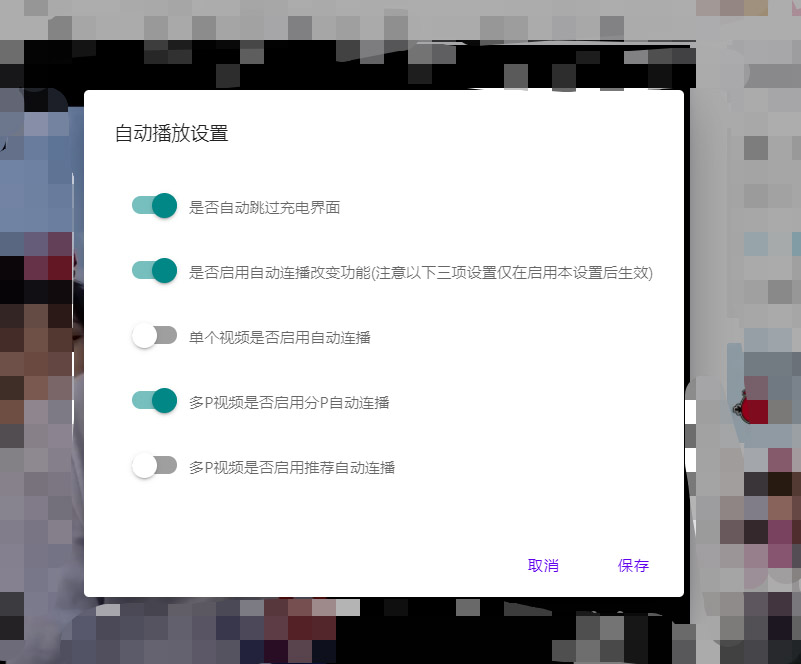
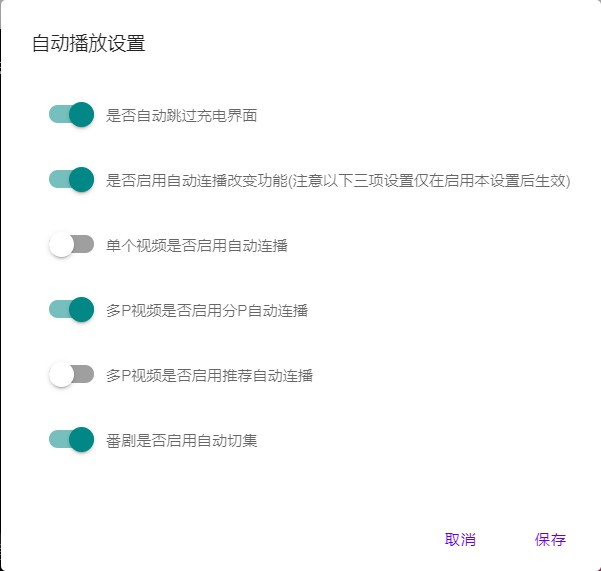
FEATURE:增加番剧自动连播选项

diff --git a/BilibiliSmallTools.js b/BilibiliSmallTools.js
@@ -1,7 +1,7 @@
 // ==UserScript==
 // @name               哔哩哔哩 小功能
 // @namespace          https://github.com/MrSTOP
-// @version            0.3.5.4
+// @version            0.3.6.6
 // @description        记录为什么屏蔽了此人，支持导入导出。添加自动跳过充电页面功能，调整B站恶心的自动连播功能
 // @author             MrSTOP
 // @license            GPLv3
@@ -312,6 +312,7 @@
         singleVideoAutoPlayRecommend: false,
         multipartVideoAutoPlay: true,
         multipartVideoAutoPlayRecommend: false,
+        bangumiAutoPlay: true,
       });
     }
 
@@ -370,6 +371,25 @@
           //     );
           //     console.log("$$$$$$$$$$$$$$$$$$$$$$$$$$$$$$$");
           //   }
+          if ($(node).hasClass("bilibili-player-video-btn-setting")) {
+            $("body .bilibili-player-video-btn-setting")[0].dispatchEvent(
+              new Event("mouseover")
+            );
+            $("body .bilibili-player-video-btn-setting")[0].dispatchEvent(
+              new Event("mouseout")
+            );
+            if (currentSettings.bangumiAutoPlay) {
+              $(
+                "body .bilibili-player-video-btn-setting-right-playtype-content>div>div>label:nth-of-type(1)"
+              )[0].click();
+              console.log("已开启自动切集");
+            } else {
+              $(
+                "body .bilibili-player-video-btn-setting-right-playtype-content>div>div>label:nth-of-type(2)"
+              )[0].click();
+              console.log("已开启播完暂停");
+            }
+          }
           if ($(node).hasClass("list-item")) {
             $(node).find("li.blacklist").on({
               click: blackButtonClickHandler,
@@ -484,6 +504,19 @@
         </span>
         <label class="mdc-list-item__text" for="SettingMultipartVideoAutoPlayRecommendInput">多P视频是否启用推荐自动连播</label>
         </li>
+        <li class="mdc-list-item" role="switch" tabindex="4">
+        <span class="mdc-list-item__graphic">
+        <div id="SettingBangumiAutoPlay" class="mdc-switch">
+        <div class="mdc-switch__track"></div>
+        <div class="mdc-switch__thumb-underlay">
+        <div class="mdc-switch__thumb">
+        <input type="checkbox" id="SettingBangumiAutoPlayInput" class="mdc-switch__native-control">
+        </div>
+        </div>
+        </div>
+        </span>
+        <label class="mdc-list-item__text" for="SettingBangumiAutoPlayInput">番剧是否启用自动切集</label>
+        </li>
         </ul>
         <!--<ul id="AutoPlaySettingOptionList" class="mdc-list" role="group" aria-label="List with switch items">
         <li class="mdc-list-item" role="switch" aria-checked="false">
@@ -557,7 +590,9 @@
         MDCDialog = mdc.dialog.MDCDialog.attachTo(
           $("#AutoPlaySettingDialog")[0]
         );
-        let settingList = mdc.list.MDCList.attachTo($("#AutoPlaySettingOptionList")[0]);
+        let settingList = mdc.list.MDCList.attachTo(
+          $("#AutoPlaySettingOptionList")[0]
+        );
         let tooltip = mdc.tooltip.MDCTooltip.attachTo(
           $("#AutoPlaySettingButtonTooltip")[0]
         );
@@ -572,6 +607,7 @@
         let jQ_MultipartVideoAutoPlayRecommendSwitch = $(
           "#SettingMultipartVideoAutoPlayRecommend"
         );
+        let jQ_BangumiAutoPlaySwitch = $("#SettingBangumiAutoPlay");
 
         let skipChargeSwitch = mdc.switchControl.MDCSwitch.attachTo(
           jQ_SkipChargeSwitch[0]
@@ -579,33 +615,43 @@
         let autoPlayChangeSwitch = mdc.switchControl.MDCSwitch.attachTo(
           jQ_AutoPlayChangeSwitch[0]
         );
-        let singleVideoAutoPlayRecommendSwitch = mdc.switchControl.MDCSwitch.attachTo(
-          jQ_SingleVideoAutoPlayRecommendSwitch[0]
-        );
+        let singleVideoAutoPlayRecommendSwitch =
+          mdc.switchControl.MDCSwitch.attachTo(
+            jQ_SingleVideoAutoPlayRecommendSwitch[0]
+          );
         let multipartVideoAutoPlaySwitch = mdc.switchControl.MDCSwitch.attachTo(
           jQ_MultipartVideoAutoPlaySwitch[0]
         );
-        let multipartVideoAutoPlayRecommendSwitch = mdc.switchControl.MDCSwitch.attachTo(
-          jQ_MultipartVideoAutoPlayRecommendSwitch[0]
+        let multipartVideoAutoPlayRecommendSwitch =
+          mdc.switchControl.MDCSwitch.attachTo(
+            jQ_MultipartVideoAutoPlayRecommendSwitch[0]
           );
-          jQ_AutoPlayChangeSwitch.on({
-              change: () => {
-              if (autoPlayChangeSwitch.checked) {
-                  settingList.setEnabled([2], true);
-                  singleVideoAutoPlayRecommendSwitch.disabled = false;
-                  settingList.setEnabled([3], true);
-                  multipartVideoAutoPlaySwitch.disabled = false;
-                  settingList.setEnabled([4], true);
-                  multipartVideoAutoPlayRecommendSwitch.disabled = false;
-              } else {
-                  settingList.setEnabled([2], false);
-                  singleVideoAutoPlayRecommendSwitch.disabled = true;
-                  settingList.setEnabled([3], false);
-                  multipartVideoAutoPlaySwitch.disabled = true;
-                  settingList.setEnabled([4], false);
-                  multipartVideoAutoPlayRecommendSwitch.disabled = true;
-              }
-          }})
+        let bangumiAutoPlaySwitch = mdc.switchControl.MDCSwitch.attachTo(
+          jQ_BangumiAutoPlaySwitch[0]
+        );
+        jQ_AutoPlayChangeSwitch.on({
+          change: () => {
+            if (autoPlayChangeSwitch.checked) {
+              settingList.setEnabled([2], true);
+              singleVideoAutoPlayRecommendSwitch.disabled = false;
+              settingList.setEnabled([3], true);
+              multipartVideoAutoPlaySwitch.disabled = false;
+              settingList.setEnabled([4], true);
+              multipartVideoAutoPlayRecommendSwitch.disabled = false;
+              settingList.setEnabled([5], true);
+              bangumiAutoPlaySwitch.disabled = false;
+            } else {
+              settingList.setEnabled([2], false);
+              singleVideoAutoPlayRecommendSwitch.disabled = true;
+              settingList.setEnabled([3], false);
+              multipartVideoAutoPlaySwitch.disabled = true;
+              settingList.setEnabled([4], false);
+              multipartVideoAutoPlayRecommendSwitch.disabled = true;
+              settingList.setEnabled([5], false);
+              bangumiAutoPlaySwitch.disabled = true;
+            }
+          },
+        });
         $("#OpenSettingDialogButton").on({
           click: () => {
             currentSettings = settingsStorage.loadSettings();
@@ -617,6 +663,7 @@
               currentSettings.multipartVideoAutoPlay;
             multipartVideoAutoPlayRecommendSwitch.checked =
               currentSettings.multipartVideoAutoPlayRecommend;
+            bangumiAutoPlaySwitch.checked = currentSettings.bangumiAutoPlay;
             showMDCSnackbar("设置加载成功");
             MDCDialog.open();
           },
@@ -642,6 +689,7 @@
               multipartVideoAutoPlaySwitch.checked;
             currentSettings.multipartVideoAutoPlayRecommend =
               multipartVideoAutoPlayRecommendSwitch.checked;
+            currentSettings.bangumiAutoPlay = bangumiAutoPlaySwitch.checked;
             settingsStorage.saveSettings(currentSettings);
             showMDCSnackbar("设置保存成功");
             MDCDialog.close();
